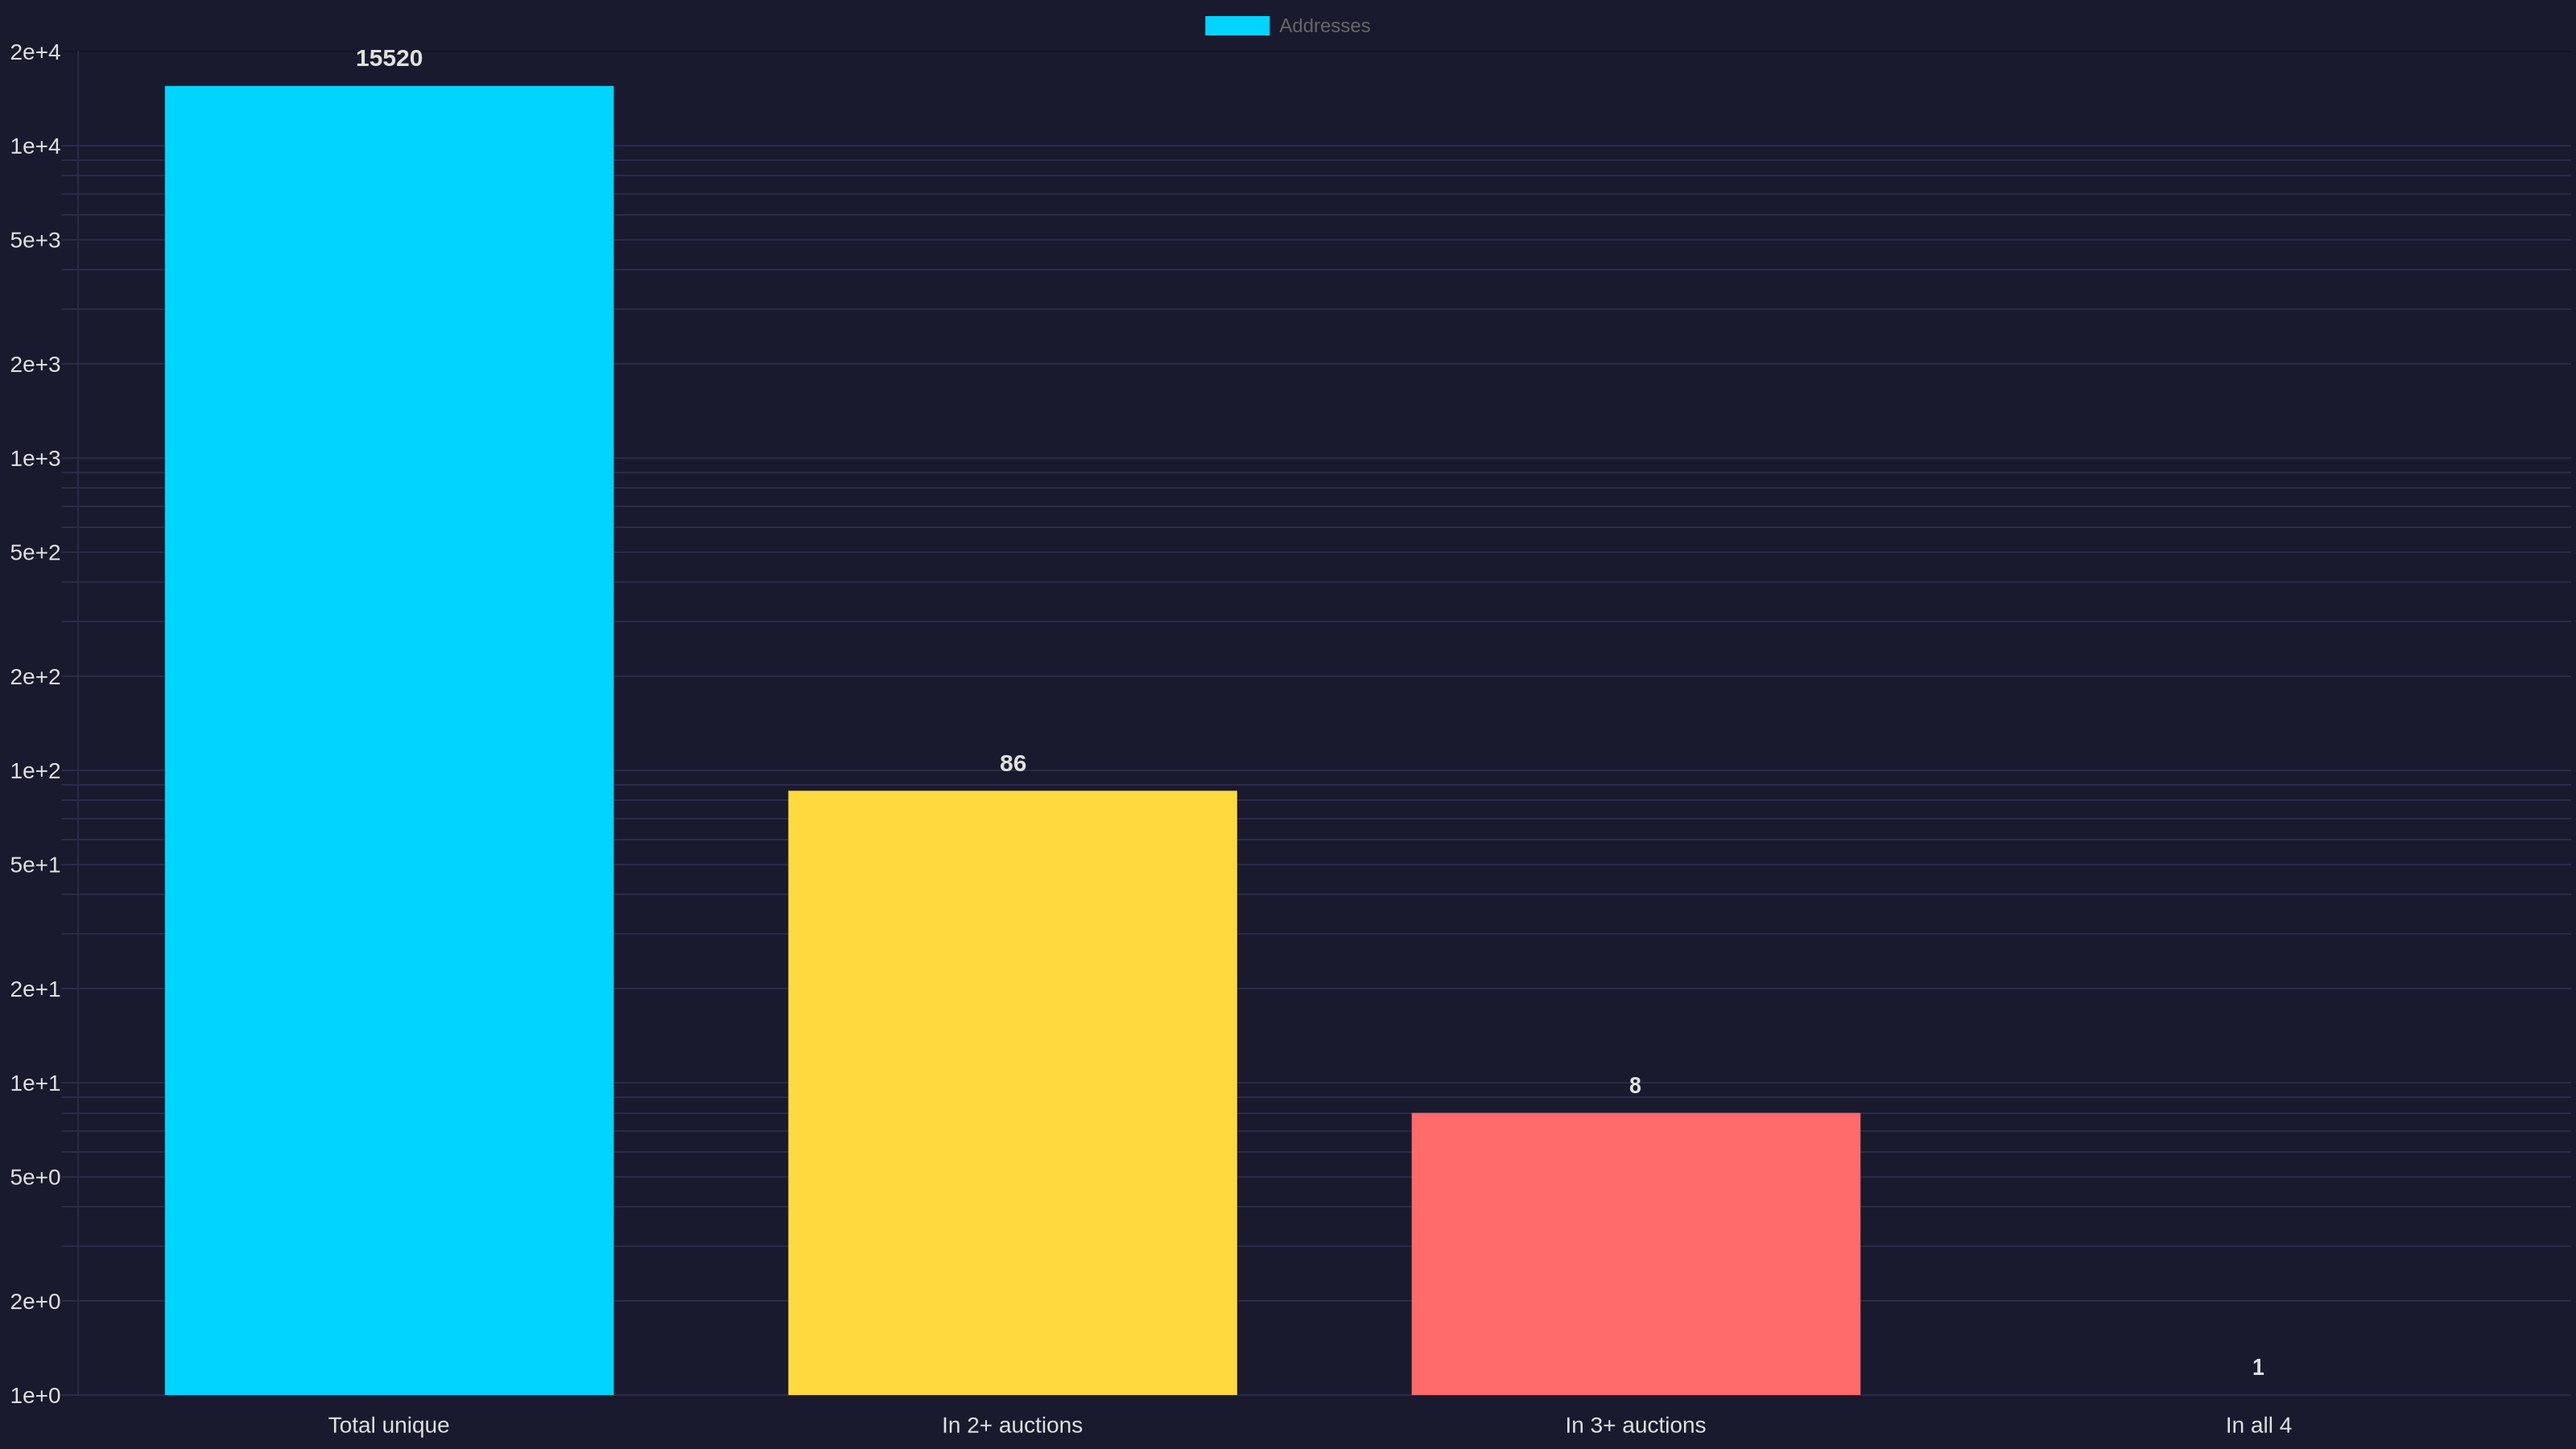
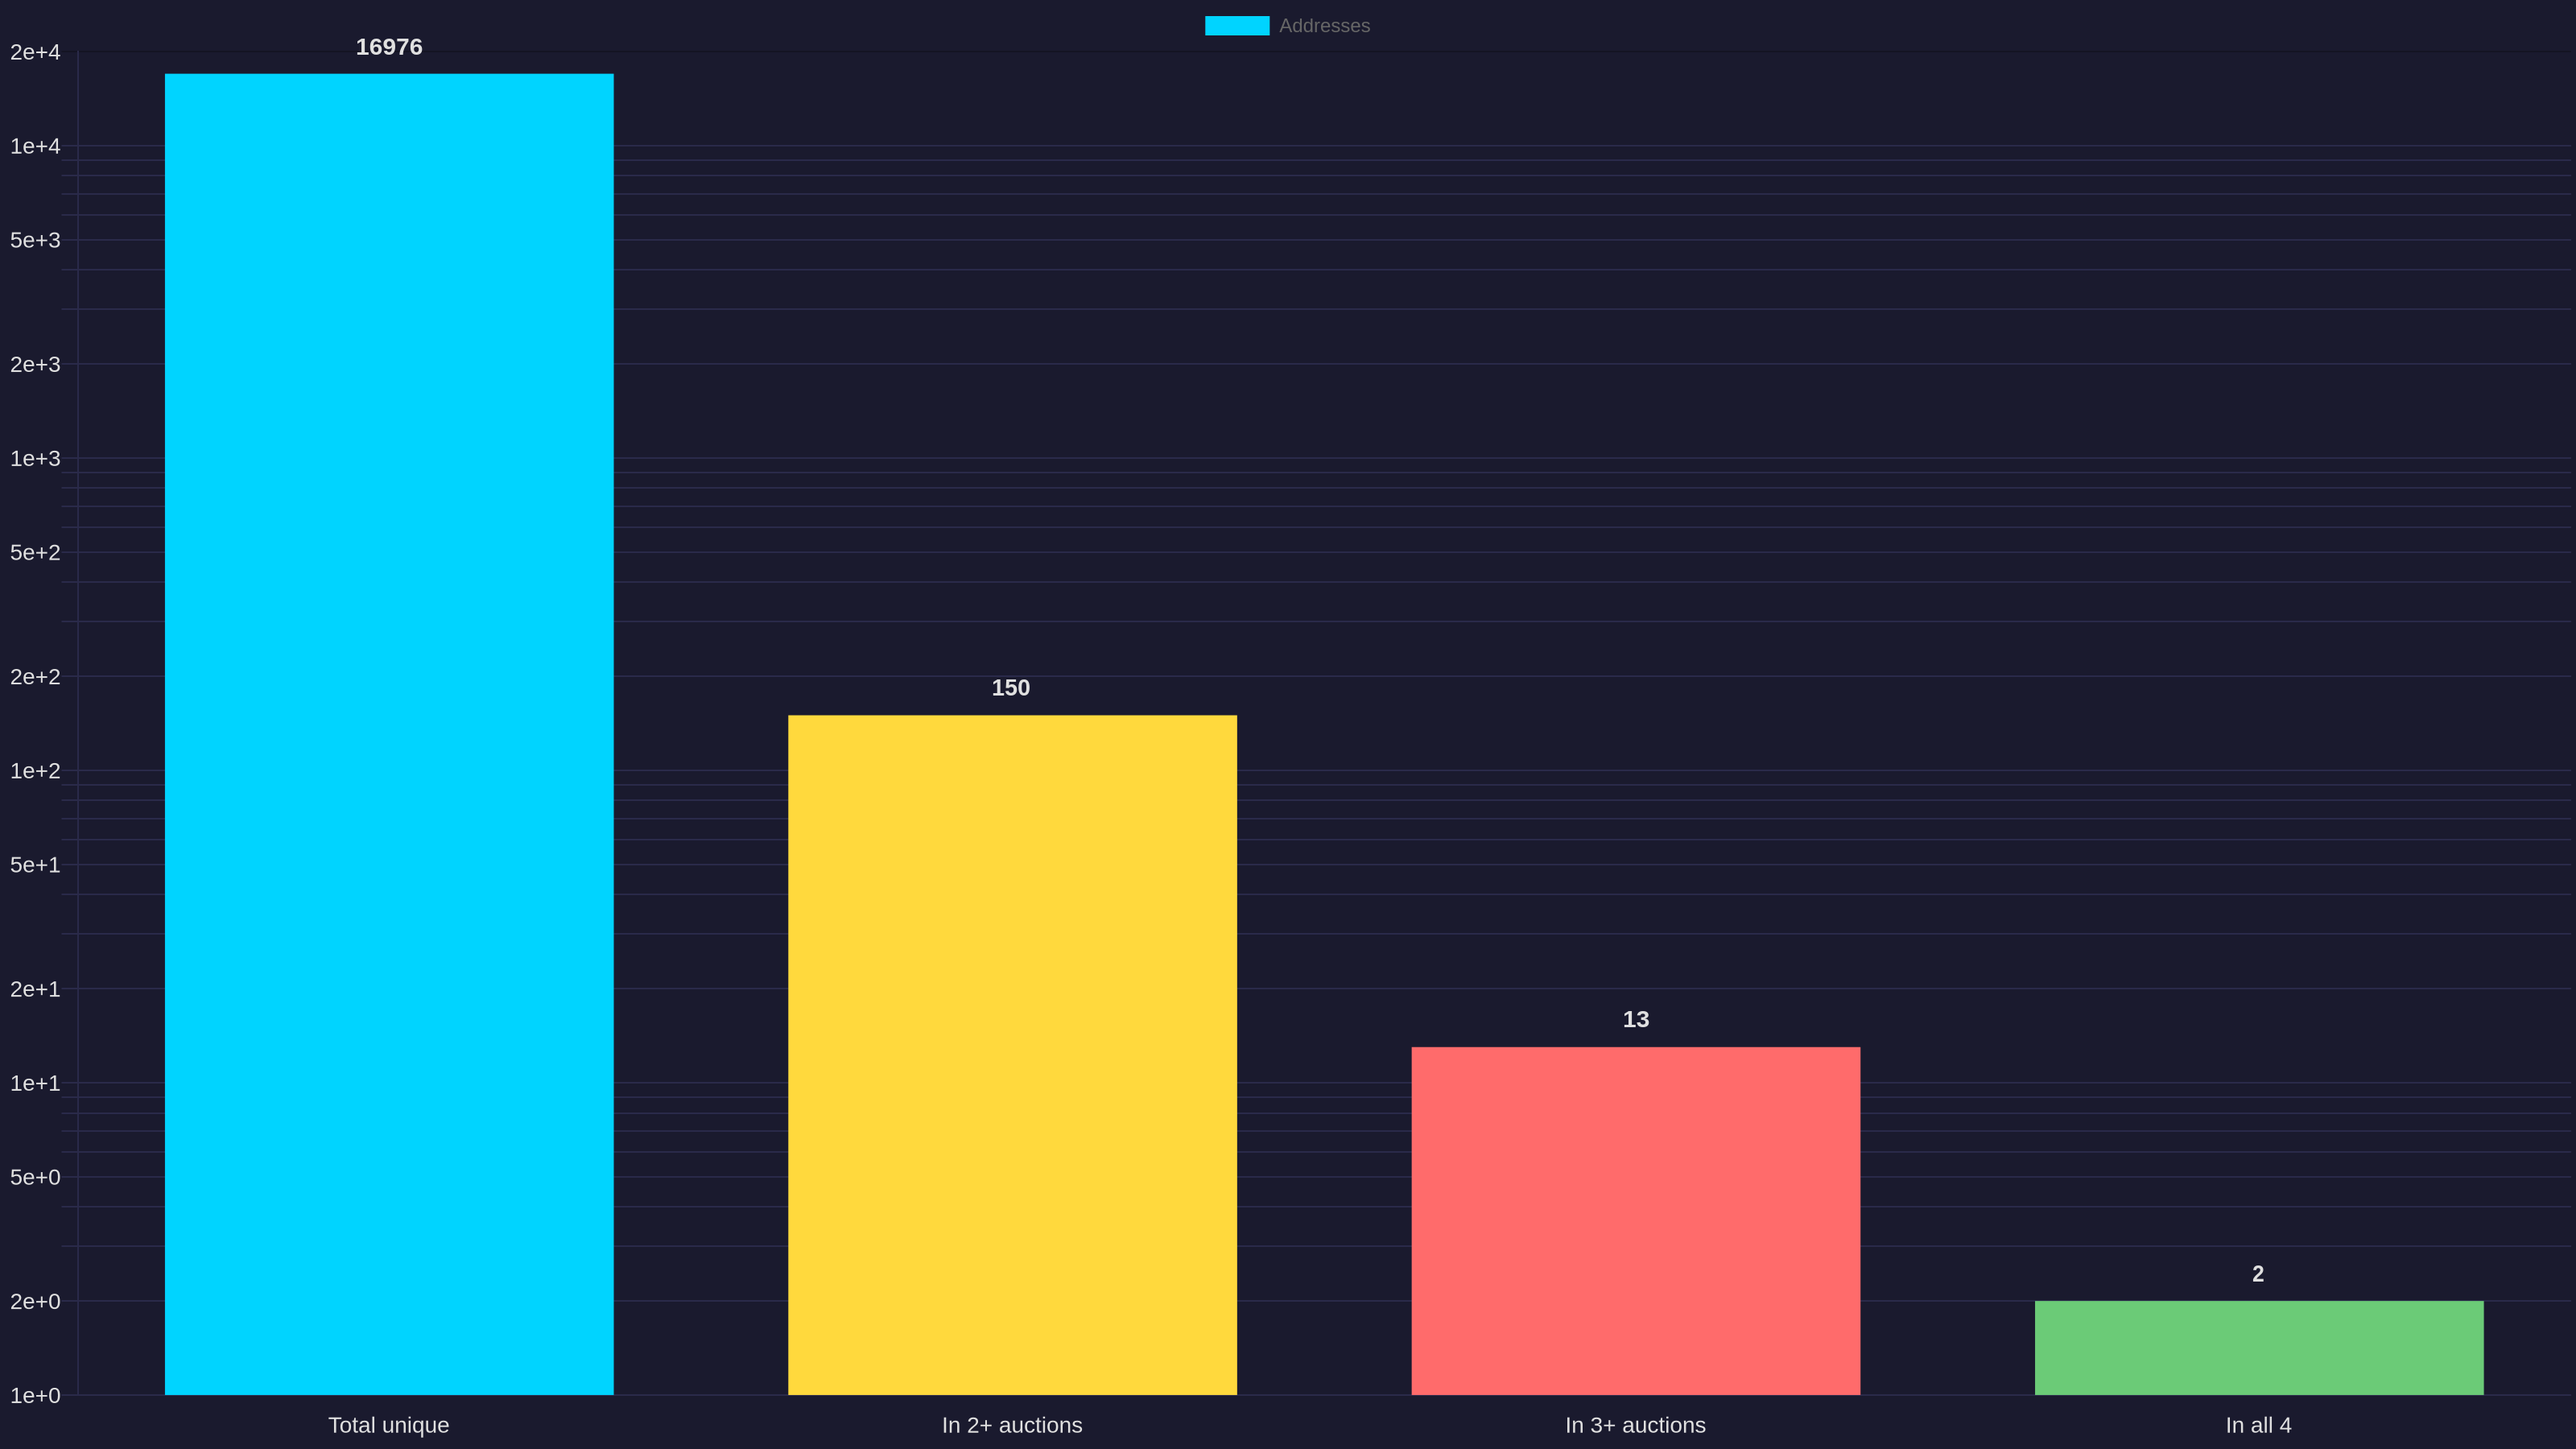
Update charts with RNBW data, add bidder overlap X thread

diff --git a/x-thread-bidder-overlap.md b/x-thread-bidder-overlap.md
@@ -1,0 +1,93 @@
+# X Thread: Who Bids in Every Uniswap CCA?
+
+Post as a thread (each ## is a separate tweet). Attach the noted images.
+
+---
+
+## Tweet 1 (hook)
+
+I tracked 16,976 wallets across every Uniswap CCA auction.
+
+150 of them showed up in more than one.
+2 wallets have bid in 4 out of 6 auctions.
+
+Here's what the data shows. A thread.
+
+[ATTACH: charts/bidder-recurrence.png]
+
+---
+
+## Tweet 2 (the data)
+
+6 real CCAs so far. 5 graduated, 1 failed:
+
+AZTEC — 19,388 ETH raised, 14,096 bidders
+RNBW — 330K USDC raised, 1,526 bidders
+wOCT — 1,177 ETH raised, 812 bidders
+CAP — 3.8M USDC raised, 416 bidders
+STRATO — 803 ETH raised, 291 bidders
+AKITA — failed to graduate, 0 bids cleared
+
+[ATTACH: charts/clearing-vs-floor.png]
+
+---
+
+## Tweet 3 (overlap matrix)
+
+The overlap matrix — how many wallets bid in both auctions:
+
+AZTEC-RNBW: 52 shared wallets (biggest overlap)
+AZTEC-CAP: 32
+AZTEC-wOCT: 30
+wOCT-RNBW: 15
+CAP-wOCT: 14
+STRATO-CAP: 13
+
+AKITA shared zero wallets with any other auction. It was isolated from the start.
+
+---
+
+## Tweet 4 (the power bidders)
+
+The 2 wallets that bid in 4 auctions:
+
+0x3eaf...1d — AZTEC, STRATO, wOCT, CAP (all mainnet)
+0xf570...ec — STRATO, wOCT, CAP, RNBW (cross-chain: mainnet + Base)
+
+11 more wallets hit 3 auctions each.
+
+These aren't bots — CCA is designed to make sniping pointless. These are deliberate, repeat participants in a new market mechanism.
+
+---
+
+## Tweet 5 (the RNBW finding)
+
+RNBW is interesting. It launched on Base, not mainnet.
+
+Yet 52 wallets that bid in AZTEC also bid in RNBW — the strongest overlap of any pair.
+
+That means CCA regulars are following the mechanism across chains, not just farming one network.
+
+---
+
+## Tweet 6 (AKITA signal)
+
+AKITA is the counter-signal.
+
+First CCA to fail. Zero overlap with any other auction. None of the 150 repeat bidders touched it.
+
+The regulars knew. Or at least, they weren't interested.
+
+---
+
+## Tweet 7 (CTA)
+
+All of this is open source and free:
+
+Dashboard: monkrus.github.io/cca-monitor
+API: cca-monitor-api.sergeigodev.workers.dev
+Repo: github.com/monkrus/cca-monitor
+
+The monitor auto-detects new CCAs across 6 chains. When the next one launches, the bidder overlap data gets more valuable.
+
+If you're building on CCA or studying token distribution mechanisms, the data is yours.
